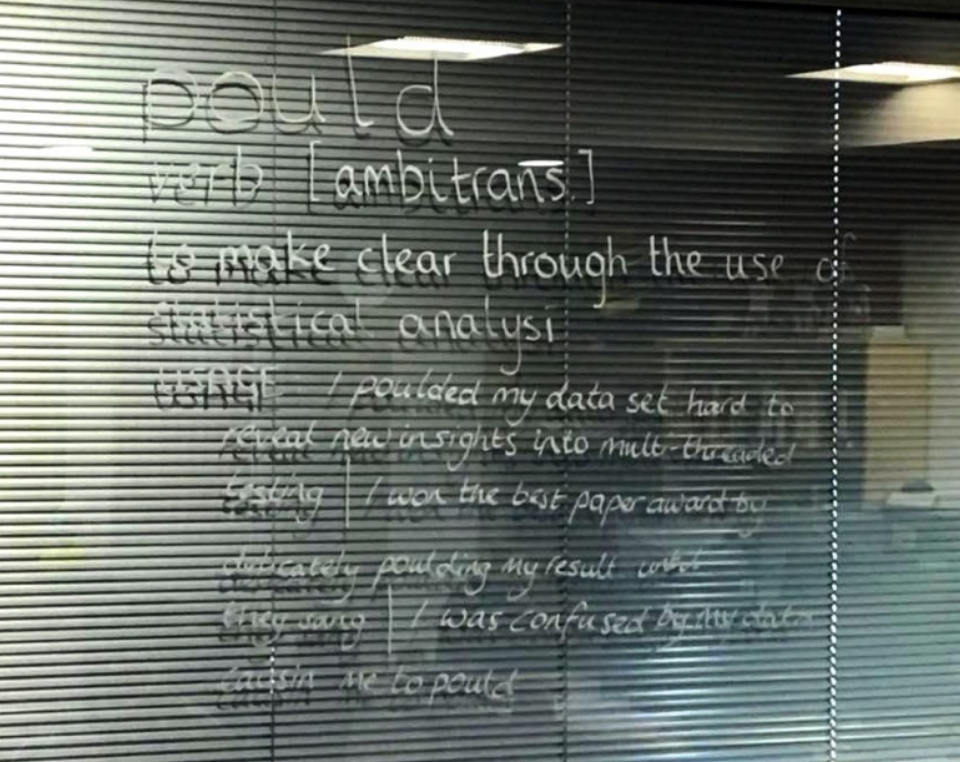
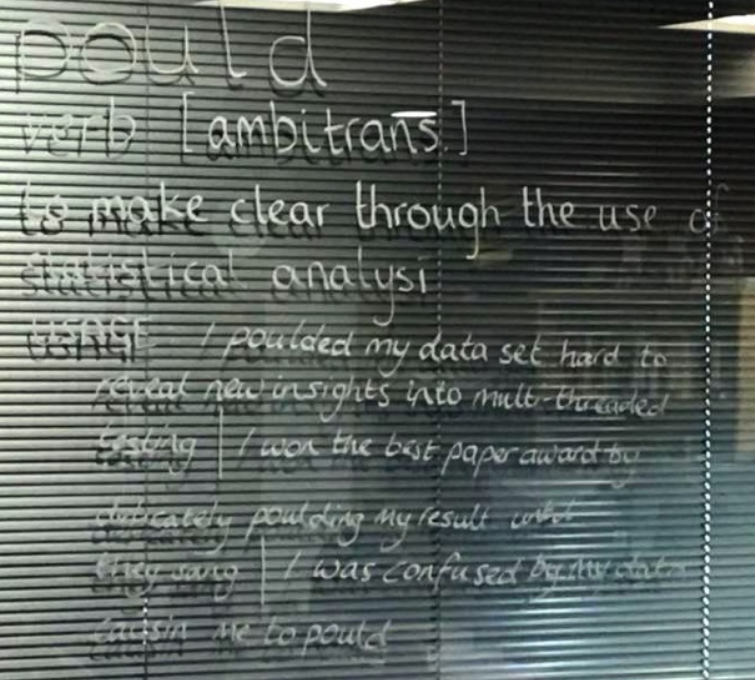
Edits to Simon tribute

diff --git a/index.html b/index.html
@@ -50,15 +50,16 @@
           <div class="card scrollspy" id="simon">
             <div class="card-content">
               <span class="card-title activator grey-text text-darken-4">In Memoriam - Simon Poulding</span>
-                <br/>
-                <img src="img/simon1.png" align="left" alt="Simon Poulding" width="500" height="657" hspace="20"/>
+                <img src="img/simon1.png" align="left" alt="Simon Poulding" width="300" height="271" hspace="20"/>
+
+                <br/><br/>
                 We would like to take a moment to remember a cherished member of our research community who left us so unexpectedly recently. Some of you may have heard the sad news, but for those who have not, Dr. Simon Poulding passed away in August.<br/><br/>
 
-                For many of us, it would not be an exaggeration to say that we lost someone who was at the very heart of this community. Simon was part of the SEBASE project that not only launched the careers of some people, but also contributed to the birth of the Symposium on Search-Based Software Engineering and the SBST workshop series. Working together with many of us, he made a series of important technical contributions to the field, including the introduction of statistical testing, the early work in Genetic Improvement - which is now a highly successful research area - and new approaches towards search-based software testing.<br/><br/>
+                For many of us, it would not be an exaggeration to say that we lost someone who was at the very heart of this community. Simon was part of the SEBASE project that not only launched the careers of some people, but also contributed to the birth of the Symposium on Search-Based Software Engineering and the SBST workshop series. Working together with many of us, he made a series of important technical contributions to the field, including the introduction of statistical testing, the early work in Genetic Improvement - which is now a highly successful research area - and new approaches towards search-based software testing.<br/><br/><br/>
 
-                With his passing, our community also lost a champion for rigorous statistical practices. Many in this community benefitted from his seminars and tutorials on statistical methods. His former colleagues at University of York are planning to keep this writing on his old office in memory of Simon:<br/><br/>
+                <img src="img/simon2.png" alt="To Pould" align="left" width="300" height="270" hspace="20"/>
 
-                &nbsp; &nbsp; &nbsp; &nbsp; &nbsp; &nbsp; &nbsp; &nbsp; &nbsp; &nbsp; &nbsp; &nbsp; <img src="img/simon2.png" alt="To Pould" width="500" height="397"/><br/>
+                With his passing, our community also lost a champion for rigorous statistical practices. Many in this community benefitted from his seminars and tutorials on statistical methods. His former colleagues at University of York are planning to keep the writing on the left on his old office.<br/><br/>
 
                 But, most of all, we lost a wonderful colleague whose warmth, humour, and kindness always shone through. Our community was a better place for having a colleague like him.<br/><br/>
                 Thank you, Simon.
